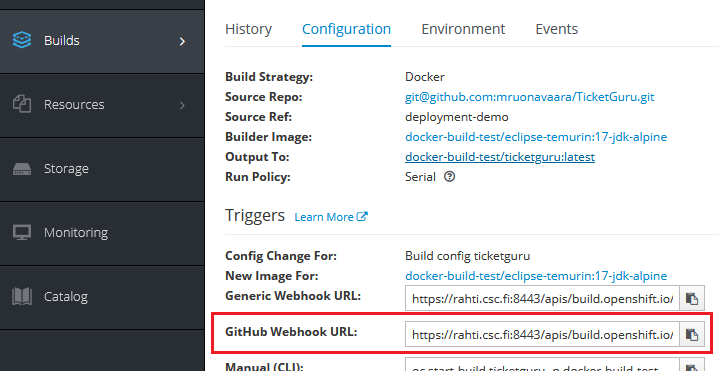
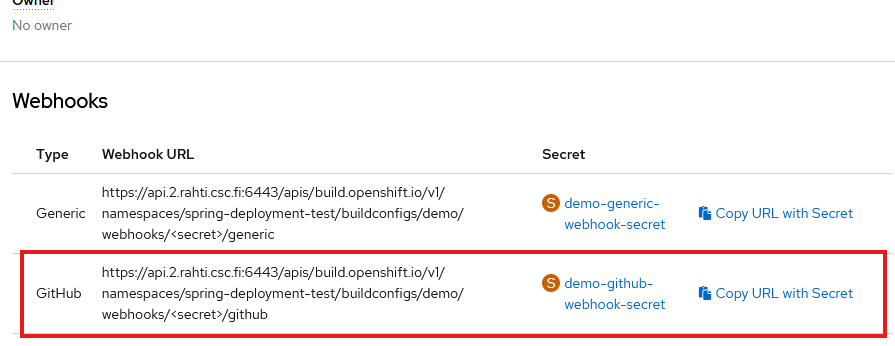
Deployed e008a6f with MkDocs version: 1.5.3

diff --git a/rahti/spring_ilman_tietokantaa/index.html b/rahti/spring_ilman_tietokantaa/index.html
@@ -1106,7 +1106,9 @@
 </tbody>
 </table>
 <p>Kun painat valintaa <em>Create</em>, tarvittavat resurssit luodaan ja build käynnistyy. Voit seurata buildin etenemistä web-käyttöliittymässä.</p>
+<p><img alt="" src="../img/rahti_build_in_progress.png" /></p>
 <p>Kun julkaisu on onnistunut, projektiin on ilmaantunut <em>Deployment</em>, jossa on toivottavasti käynnissä oleva kontti (<em>Pod</em>), palvelu (<em>Service</em>) sekä reitti (<em>Route</em>). josta sovelluksesi vastaa. Jos näin ei ole, tilannetta voi selvitellä luvun <a href="../virheenjaljitys/">Virheenjäljitys</a> ohjeiden avulla.</p>
+<p><img alt="" src="../img/rahti_deployment_succesful.png" /></p>
 <h2 id="sovelluksen-luonti-komentorivilla">Sovelluksen luonti komentorivillä</h2>
 <p>Sovellus voidaan luoda komentorivikomennoilla. Tämä tapa on vaihtoehtoinen web-käyttöliittymän käytölle.</p>
 <p><strong>Huom!</strong> Jotta tässä luvussa käytettäviä <code>oc</code>-komentoja voi antaa, on ensin kirjauduttava Rahti-palveluun luvun <a href="../komentorivityokalun_asennus/#rahti-palveluun-kirjautuminen-komentorivilla">Rahti-palveluun kirjautuminen komentorivillä</a> ohjeiden mukaisesti.</p>

diff --git a/rahti/buildin_automatisointi/index.html b/rahti/buildin_automatisointi/index.html
@@ -769,7 +769,8 @@
 <h1 id="buildin-automatisointi">Buildin automatisointi</h1>
 <p>Jos sovellukselle on <em>build config</em>, jolla julkaisu tehdään GitHub-repositoriosta, voidaan build konfiguroida käynnistymään automaattisesti, kun repositorioon pusketaan uutta koodia.</p>
 <p>Uusi build liipaistaan määrittämällä GitHub-repositorioon <em>webhook</em>, jota repositorio kutsuu aina, kun uusia muutoksia pusketaan.</p>
-<p>Webhook-URL löytyy Rahti-palvelun käyttöliittymässä kohdata <em>Builds</em>.</p>
+<p>Webhook-URL löytyy Rahti-palvelun käyttöliittymässä <em>BuildConfig details</em>-näkymästä.</p>
+<p><img alt="" src="../img/rahti_view_buildconfig.png" /></p>
 <p><img alt="" src="../img/rahti_find_webhook_url.png" /></p>
 <p>Kopioi URL ja lisää se Github-repositorioon GitHubin web-käyttöliittymän kohdassa <em>Settings/Webhooks/Add webhook</em>.</p>
 <p><img alt="" src="../img/github_add_webhook_ui.png" /></p>
